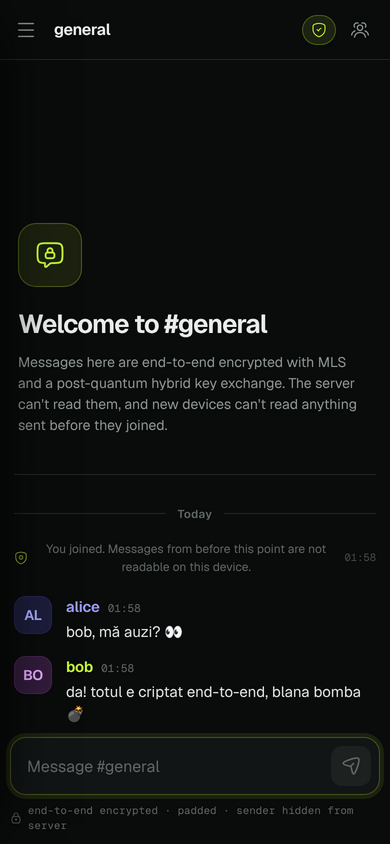
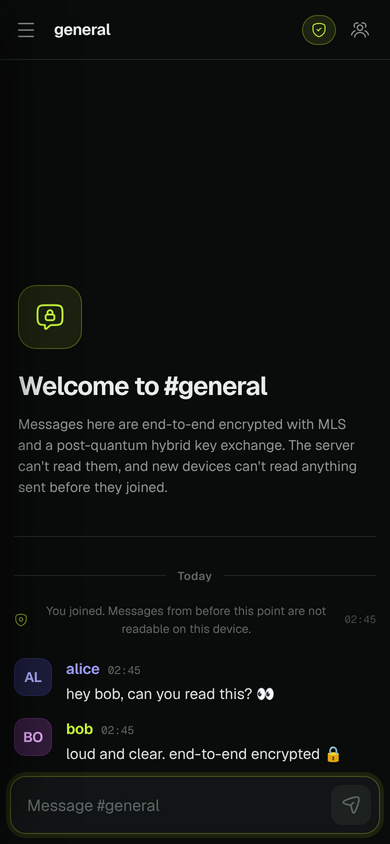
README: English only, screenshots with English messages
Claude-Session: https://claude.ai/code/session_019nUqy7cBAxNNQzSmcPb2vV

diff --git a/README.md b/README.md
@@ -179,14 +179,6 @@ Icons: [Hugeicons](https://hugeicons.com) free set (MIT), regenerated with `node
 
 ---
 
-## 🇷🇴 Pe scurt
-
-- **Instalare:** `git clone https://github.com/rexsystems/bunkr && cd bunkr && docker compose up -d --build`
-- **Cu domeniu + HTTPS:** `BUNKR_DOMAIN=chat.domeniu.ro docker compose --profile tls up -d --build`
-- **Codul de admin:** `docker compose logs bunkr | grep -A1 "SETUP CODE"`. Primul cont creat cu el devine admin.
-- **Schimbi parola → se resetează TOT:** chei noi, toate device-urile delogate, istoricul șters. Nu există recuperare de parolă.
-- Serverul vede doar date criptate. Nu știe cine a trimis mesajul și nu salvează IP-uri sau emailuri.
-
 ## License
 
 AGPL-3.0-or-later
